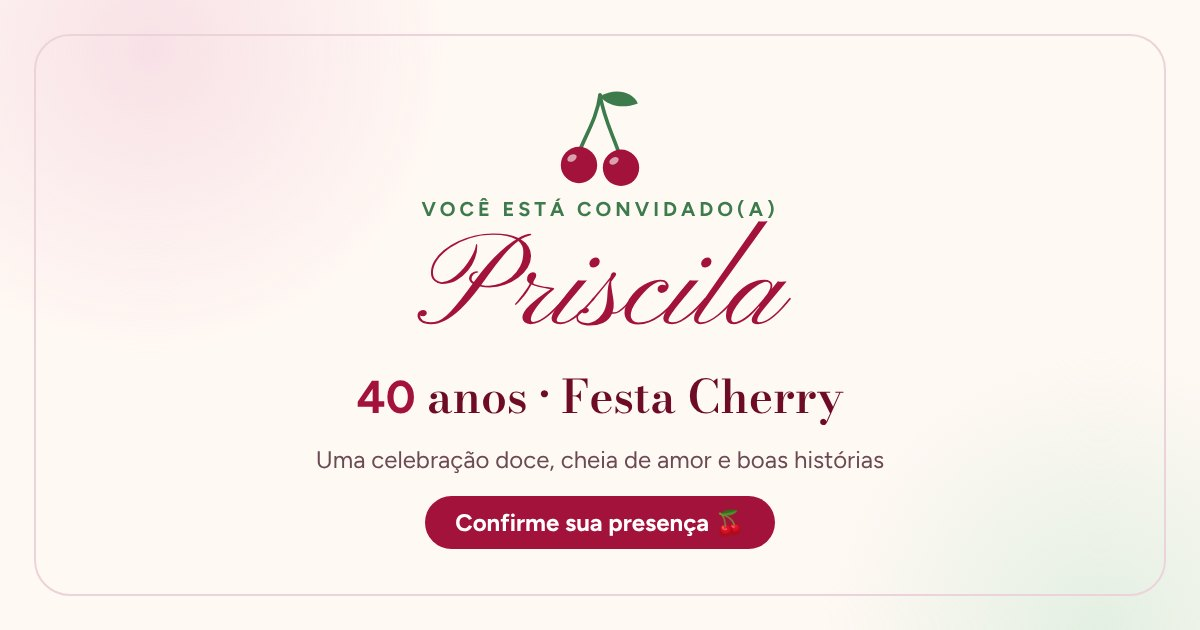
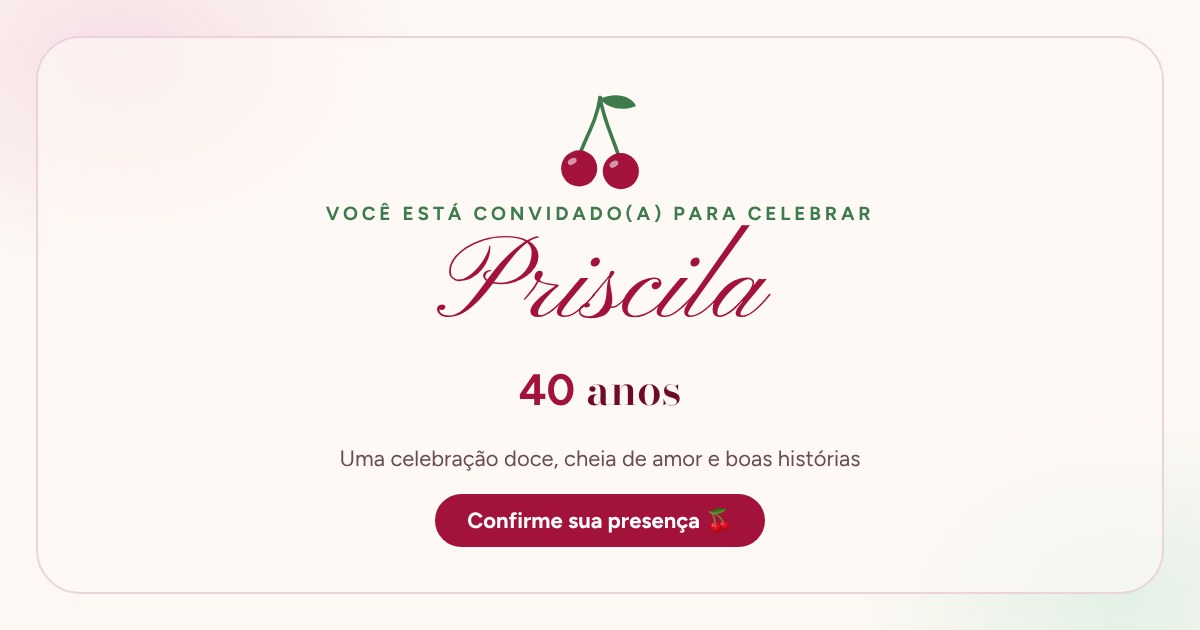
Convite: texto 'os 40 anos da Pri', sem 'Cherry' nos títulos e aviso de resposta no WhatsApp
- Convite: 'Você está convidado(a) para celebrar OS 40 ANOS DA PRI'.
- Título da aba, prévia do link (og) e app instalado sem 'Cherry'; imagem
  de prévia refeita sem 'Festa Cherry' (?v=2 para o WhatsApp buscar de novo).
- Resposta pelo link pessoal marca o convite como enviado sozinha.
- Botão de check-in renomeado para 'Chegou na festa'.
- api/rpc.js avisa o n8n (RSVP_WEBHOOK_URL) a cada resposta; falha no
  aviso não atrapalha a confirmação.

Claude-Session: https://claude.ai/code/session_01Rp9sHJo2yd9ocDRdr8Lmpo

diff --git a/index.html b/index.html
@@ -4,31 +4,31 @@
 <meta charset="utf-8">
 <meta name="viewport" content="width=device-width, initial-scale=1, viewport-fit=cover">
 <meta name="robots" content="noindex,nofollow,noarchive">
-<title>Priscila 40 · Cherry</title>
+<title>Priscila 40 anos</title>
 <meta name="claude:viewport-fit-sides" content="cover">
 <meta name="description" content="Priscila 40 anos: uma celebração doce, cheia de amor e boas histórias. Confirme sua presença.">
 <!-- card de prévia (WhatsApp, redes): genérico de propósito, sem dados de convidados -->
 <meta property="og:type" content="website">
-<meta property="og:site_name" content="Festa Cherry">
+<meta property="og:site_name" content="Priscila 40 anos">
 <meta property="og:locale" content="pt_BR">
 <meta property="og:url" content="https://myfest.blogdapriscila.com.br/">
-<meta property="og:title" content="Priscila 40 anos · Festa Cherry">
+<meta property="og:title" content="Priscila 40 anos">
 <meta property="og:description" content="Você está convidado(a)! Uma celebração doce, cheia de amor e boas histórias. Confirme sua presença.">
-<meta property="og:image" content="https://myfest.blogdapriscila.com.br/og-convite.jpg">
-<meta property="og:image:secure_url" content="https://myfest.blogdapriscila.com.br/og-convite.jpg">
+<meta property="og:image" content="https://myfest.blogdapriscila.com.br/og-convite.jpg?v=2">
+<meta property="og:image:secure_url" content="https://myfest.blogdapriscila.com.br/og-convite.jpg?v=2">
 <meta property="og:image:type" content="image/jpeg">
 <meta property="og:image:width" content="1200">
 <meta property="og:image:height" content="630">
-<meta property="og:image:alt" content="Convite: Priscila 40 anos, Festa Cherry. Confirme sua presença.">
+<meta property="og:image:alt" content="Convite: Priscila 40 anos. Confirme sua presença.">
 <meta name="twitter:card" content="summary_large_image">
-<meta name="twitter:title" content="Priscila 40 anos · Festa Cherry">
+<meta name="twitter:title" content="Priscila 40 anos">
 <meta name="twitter:description" content="Você está convidado(a)! Uma celebração doce, cheia de amor e boas histórias. Confirme sua presença.">
-<meta name="twitter:image" content="https://myfest.blogdapriscila.com.br/og-convite.jpg">
+<meta name="twitter:image" content="https://myfest.blogdapriscila.com.br/og-convite.jpg?v=2">
 <meta name="theme-color" content="#a3123a">
 <meta name="mobile-web-app-capable" content="yes">
 <meta name="apple-mobile-web-app-capable" content="yes">
 <meta name="apple-mobile-web-app-status-bar-style" content="default">
-<meta name="apple-mobile-web-app-title" content="Festa Cherry">
+<meta name="apple-mobile-web-app-title" content="Priscila 40 anos">
 <link rel="icon" href="/favicon.svg" type="image/svg+xml">
 <link rel="icon" href="/favicon-32.png" type="image/png" sizes="32x32">
 <link rel="apple-touch-icon" href="/apple-touch-icon.png">
@@ -328,6 +328,7 @@ body::before{content:"";position:fixed;inset:0;z-index:-1;pointer-events:none;ba
 .leaf-deco.br{bottom:-30px;right:-26px;transform:rotate(156deg)}
 .hero>*:not(.fall):not(.leaf-deco){position:relative;z-index:1}
 .kicker{font-family:var(--f-display);font-style:italic;color:var(--leaf);font-size:1.05rem;margin-bottom:2px;position:relative}
+.kick-up{display:block;font-style:normal;font-weight:600;font-size:.86rem;letter-spacing:.16em;text-transform:uppercase;color:var(--cherry-deep);margin-top:2px}
 .date-chip{white-space:nowrap;display:inline-flex;align-items:center;gap:8px;margin-top:16px;padding:8px 16px;border-radius:999px;background:var(--paper);border:1px solid var(--line);font-weight:600;font-size:.92rem;color:var(--cherry-deep);position:relative}
 .date-chip svg{width:18px;height:18px;color:var(--cherry)}
 .sh{font-size:1.3rem;margin-bottom:14px;display:flex;align-items:center;gap:10px}
@@ -588,6 +589,8 @@ function mergeRsvps(list){
     if(g&&g.manualAt&&g.manualAt>=String(r.updated_at)){S.rsvpSeen[r.phone]=r.updated_at;return}
     const data={phone:r.phone,status:r.status,companions:r.companions||[],diet:r.diet||'',notes:r.notes||'',respondedAt:String(r.updated_at).slice(0,10)};
     if(g&&(g.companions||[]).join('|')!==data.companions.join('|'))data.compDiets=[];
+    // quem respondeu pelo link recebeu o convite: marca como enviado sem precisar clicar
+    if(!g||inviteState(g)!=='sent')data.invite=Object.assign({},g&&g.invite,{state:'sent',at:(g&&g.invite&&g.invite.at)||data.respondedAt});
     if(g)Object.assign(g,data);else S.guests.push(Object.assign({id:uid(),name:r.name,group:'Pelo convite',allowed:Number(S.party.maxCompanions)||0,demo:false},data));
     S.rsvpSeen[r.phone]=r.updated_at;n++;
   });
@@ -864,7 +867,7 @@ function syncMusic(){
 }
 function render(){
   const r=route();clearInterval(cdTimer);syncMusic();
-  applyTheme();document.title=S.party.name+' '+partyAge()+' anos · '+THEMES[themeKey()].label;
+  applyTheme();document.title=S.party.name+' '+partyAge()+' anos';
   const app=document.getElementById('app');
   if(ALBUM_PATH){app.innerHTML=viewGuestAlbum();loadGuestGallery();return}
   if(PRIVATE.includes(r)){
@@ -949,7 +952,7 @@ function viewInvite(){
   return '<main class="invite gutter">'+
    '<section class="hero" aria-labelledby="ttl"><div class="fall" aria-hidden="true">'+falls+'</div>'+leaf('tl')+leaf('br')+
     '<div class="arch">'+photo+'</div>'+
-    '<p class="kicker">'+(invitee?esc(invitee.name.split(' ')[0])+', este convite é para você':'Você está convidado(a) para celebrar')+'</p>'+
+    '<p class="kicker">'+(invitee?esc(invitee.name.split(' ')[0])+', você':'Você')+' está convidado(a) para celebrar <span class="kick-up">os '+esc(age)+' anos da Pri</span></p>'+
     '<h1 id="ttl" aria-label="'+esc(p.name)+', '+esc(age)+' anos"><span class="script" aria-hidden="true">'+esc(p.name)+'</span><span class="forty" style="display:block" aria-hidden="true"><b>'+esc(age)+'</b> anos</span></h1>'+
     '<p class="tag">'+esc(p.tagline)+'</p>'+
     (p.date?'<span class="date-chip">'+ic('cal')+esc(fmtDateChip(p.date))+(p.time?' · '+esc(p.time.replace(':','h')):'')+'</span>':'')+
@@ -1247,8 +1250,8 @@ function guestRow(g){
     ((g.companions||[]).length?'<div class="meta"><span>Com: '+esc(compLabel(g))+'</span></div>':'')+
     ((g.table||(g.invite&&g.invite.reminders))?'<div class="meta">'+(g.table?'<span>🪑 Mesa '+esc(g.table)+'</span>':'')+(g.invite&&g.invite.reminders?'<span>lembrado '+g.invite.reminders+'× · último em '+fmtDate(g.invite.remindedAt)+'</span>':'')+'</div>':'')+
     (g.diet?'<div class="meta"><span>🍽 '+esc(g.diet)+'</span></div>':'')+(g.notes?'<div class="meta"><span>'+esc(g.notes)+'</span></div>':'')+'</div>'+
-   '<div class="side"><span class="pill '+G_ST_CLS[g.status]+'"><i class="dot"></i>'+G_ST[g.status]+'</span>'+(g.arrived?'<span class="pill ok">✓ Chegou</span>':'')+(g.phone&&!g.demo?invitePill(g):'')+(people?'<span class="small num"><b>'+people+'</b> pessoa'+(people>1?'s':'')+'</span>':'')+'</div>'+
-   '<div class="acts">'+(g.phone?'<button class="btn sm leaf" data-act="guest-wa" data-id="'+g.id+'">'+ic('wa')+(inviteState(g)?'Abrir WhatsApp de novo':'Enviar convite')+'</button><button class="btn sm" data-act="inv-copy" data-id="'+g.id+'">'+ic('copy')+'Copiar convite</button>'+(inviteState(g)==='prepared'?'<button class="btn sm" data-act="inv-sent" data-id="'+g.id+'">'+ic('check')+'Marcar como enviado</button>':''):'')+(needsReminder(g)?'<button class="btn sm leaf" data-act="guest-remind" data-id="'+g.id+'">'+ic('wa')+'Lembrar</button><button class="btn sm" data-act="remind-copy" data-id="'+g.id+'">'+ic('copy')+'Copiar lembrete</button>':'')+(g.status==='yes'?'<button class="btn sm" data-act="guest-arrive" data-id="'+g.id+'">'+(g.arrived?'Desfazer chegada':'✓ Chegou')+'</button>':'')+'<button class="btn sm" data-act="guest-edit" data-id="'+g.id+'">'+ic('edit')+'Editar</button>'+(g.status!=='pending'?'<button class="btn sm" data-act="guest-reset" data-id="'+g.id+'">Cancelar resposta</button>':'')+'<button class="btn sm danger" data-act="guest-del" data-id="'+g.id+'">'+ic('trash')+'Remover</button></div></div>';
+   '<div class="side"><span class="pill '+G_ST_CLS[g.status]+'"><i class="dot"></i>'+G_ST[g.status]+'</span>'+(g.arrived?'<span class="pill ok">✓ Chegou na festa</span>':'')+(g.phone&&!g.demo?invitePill(g):'')+(people?'<span class="small num"><b>'+people+'</b> pessoa'+(people>1?'s':'')+'</span>':'')+'</div>'+
+   '<div class="acts">'+(g.phone?'<button class="btn sm leaf" data-act="guest-wa" data-id="'+g.id+'">'+ic('wa')+(inviteState(g)?'Abrir WhatsApp de novo':'Enviar convite')+'</button><button class="btn sm" data-act="inv-copy" data-id="'+g.id+'">'+ic('copy')+'Copiar convite</button>'+(inviteState(g)==='prepared'?'<button class="btn sm" data-act="inv-sent" data-id="'+g.id+'">'+ic('check')+'Marcar como enviado</button>':''):'')+(needsReminder(g)?'<button class="btn sm leaf" data-act="guest-remind" data-id="'+g.id+'">'+ic('wa')+'Lembrar</button><button class="btn sm" data-act="remind-copy" data-id="'+g.id+'">'+ic('copy')+'Copiar lembrete</button>':'')+(g.status==='yes'?'<button class="btn sm" data-act="guest-arrive" data-id="'+g.id+'">'+(g.arrived?'Desfazer chegada':'✓ Chegou na festa')+'</button>':'')+'<button class="btn sm" data-act="guest-edit" data-id="'+g.id+'">'+ic('edit')+'Editar</button>'+(g.status!=='pending'?'<button class="btn sm" data-act="guest-reset" data-id="'+g.id+'">Cancelar resposta</button>':'')+'<button class="btn sm danger" data-act="guest-del" data-id="'+g.id+'">'+ic('trash')+'Remover</button></div></div>';
 }
 function guestForm(g){
   const maxC=Number(S.party.maxCompanions)||0;

diff --git a/api/rpc.js b/api/rpc.js
@@ -61,6 +61,7 @@ module.exports = async (req, res) => {
     const sql = neon(url);
     await ensureSchema(sql);
     const rows = await sql.query(call.sql, call.args(body.args || {}));
+    if (body.fn === 'submit_rsvp_code') await notifyRsvp(body.args || {});
     return res.status(200).json(rows[0] ? rows[0].v : null);
   } catch (e) {
     if (PUBLIC_ERRORS.has(e.message)) return res.status(400).json({ error: e.message });
@@ -68,5 +69,22 @@ module.exports = async (req, res) => {
     return res.status(500).json({ error: 'server_error' });
   }
 };
+
+// Avisa a anfitriã no WhatsApp (rotina no n8n) quando um convidado responde pelo link pessoal.
+// RSVP_WEBHOOK_URL fica nas variáveis da Vercel; sem ela, nada é enviado. Falha no aviso nunca atrapalha a resposta.
+async function notifyRsvp(a) {
+  const url = process.env.RSVP_WEBHOOK_URL;
+  if (!url) return;
+  const companions = (Array.isArray(a.companions) ? a.companions : []).map(c => str(c, 200).trim()).filter(Boolean).slice(0, 20);
+  try {
+    await fetch(url, {
+      method: 'POST',
+      headers: { 'Content-Type': 'application/json' },
+      body: JSON.stringify({ name: str(a.name, 200).trim(), status: str(a.status, 10), companions: a.status === 'no' ? [] : companions,
+        diet: str(a.diet, 500).trim(), notes: str(a.notes, 1000).trim() }),
+      signal: AbortSignal.timeout(4000),
+    });
+  } catch (e) { console.error('rsvp webhook', e.message); }
+}
 
 function safeJson(s) { try { return JSON.parse(s); } catch { return {}; } }

diff --git a/README.md b/README.md
@@ -29,6 +29,7 @@ Variáveis de ambiente na Vercel:
 | `DATABASE_URL` | Conexão do Neon (a integração Neon da Vercel cria sozinha) |
 | `ADMIN_PIN` | Senha inicial do painel, de 4 a 8 números. Depois pode ser trocada em Festa › Acesso |
 | `ADMIN_EMAILS` | Opcional. E-mails que podem entrar no painel, separados por vírgula, todos com a mesma senha |
+| `RSVP_WEBHOOK_URL` | Opcional. URL do webhook do n8n que avisa a Priscila no WhatsApp a cada resposta de convidado |
 
 Se mudar `db/schema.sql`, rode `npm run build:schema` para regerar `lib/schema.js`.
 
